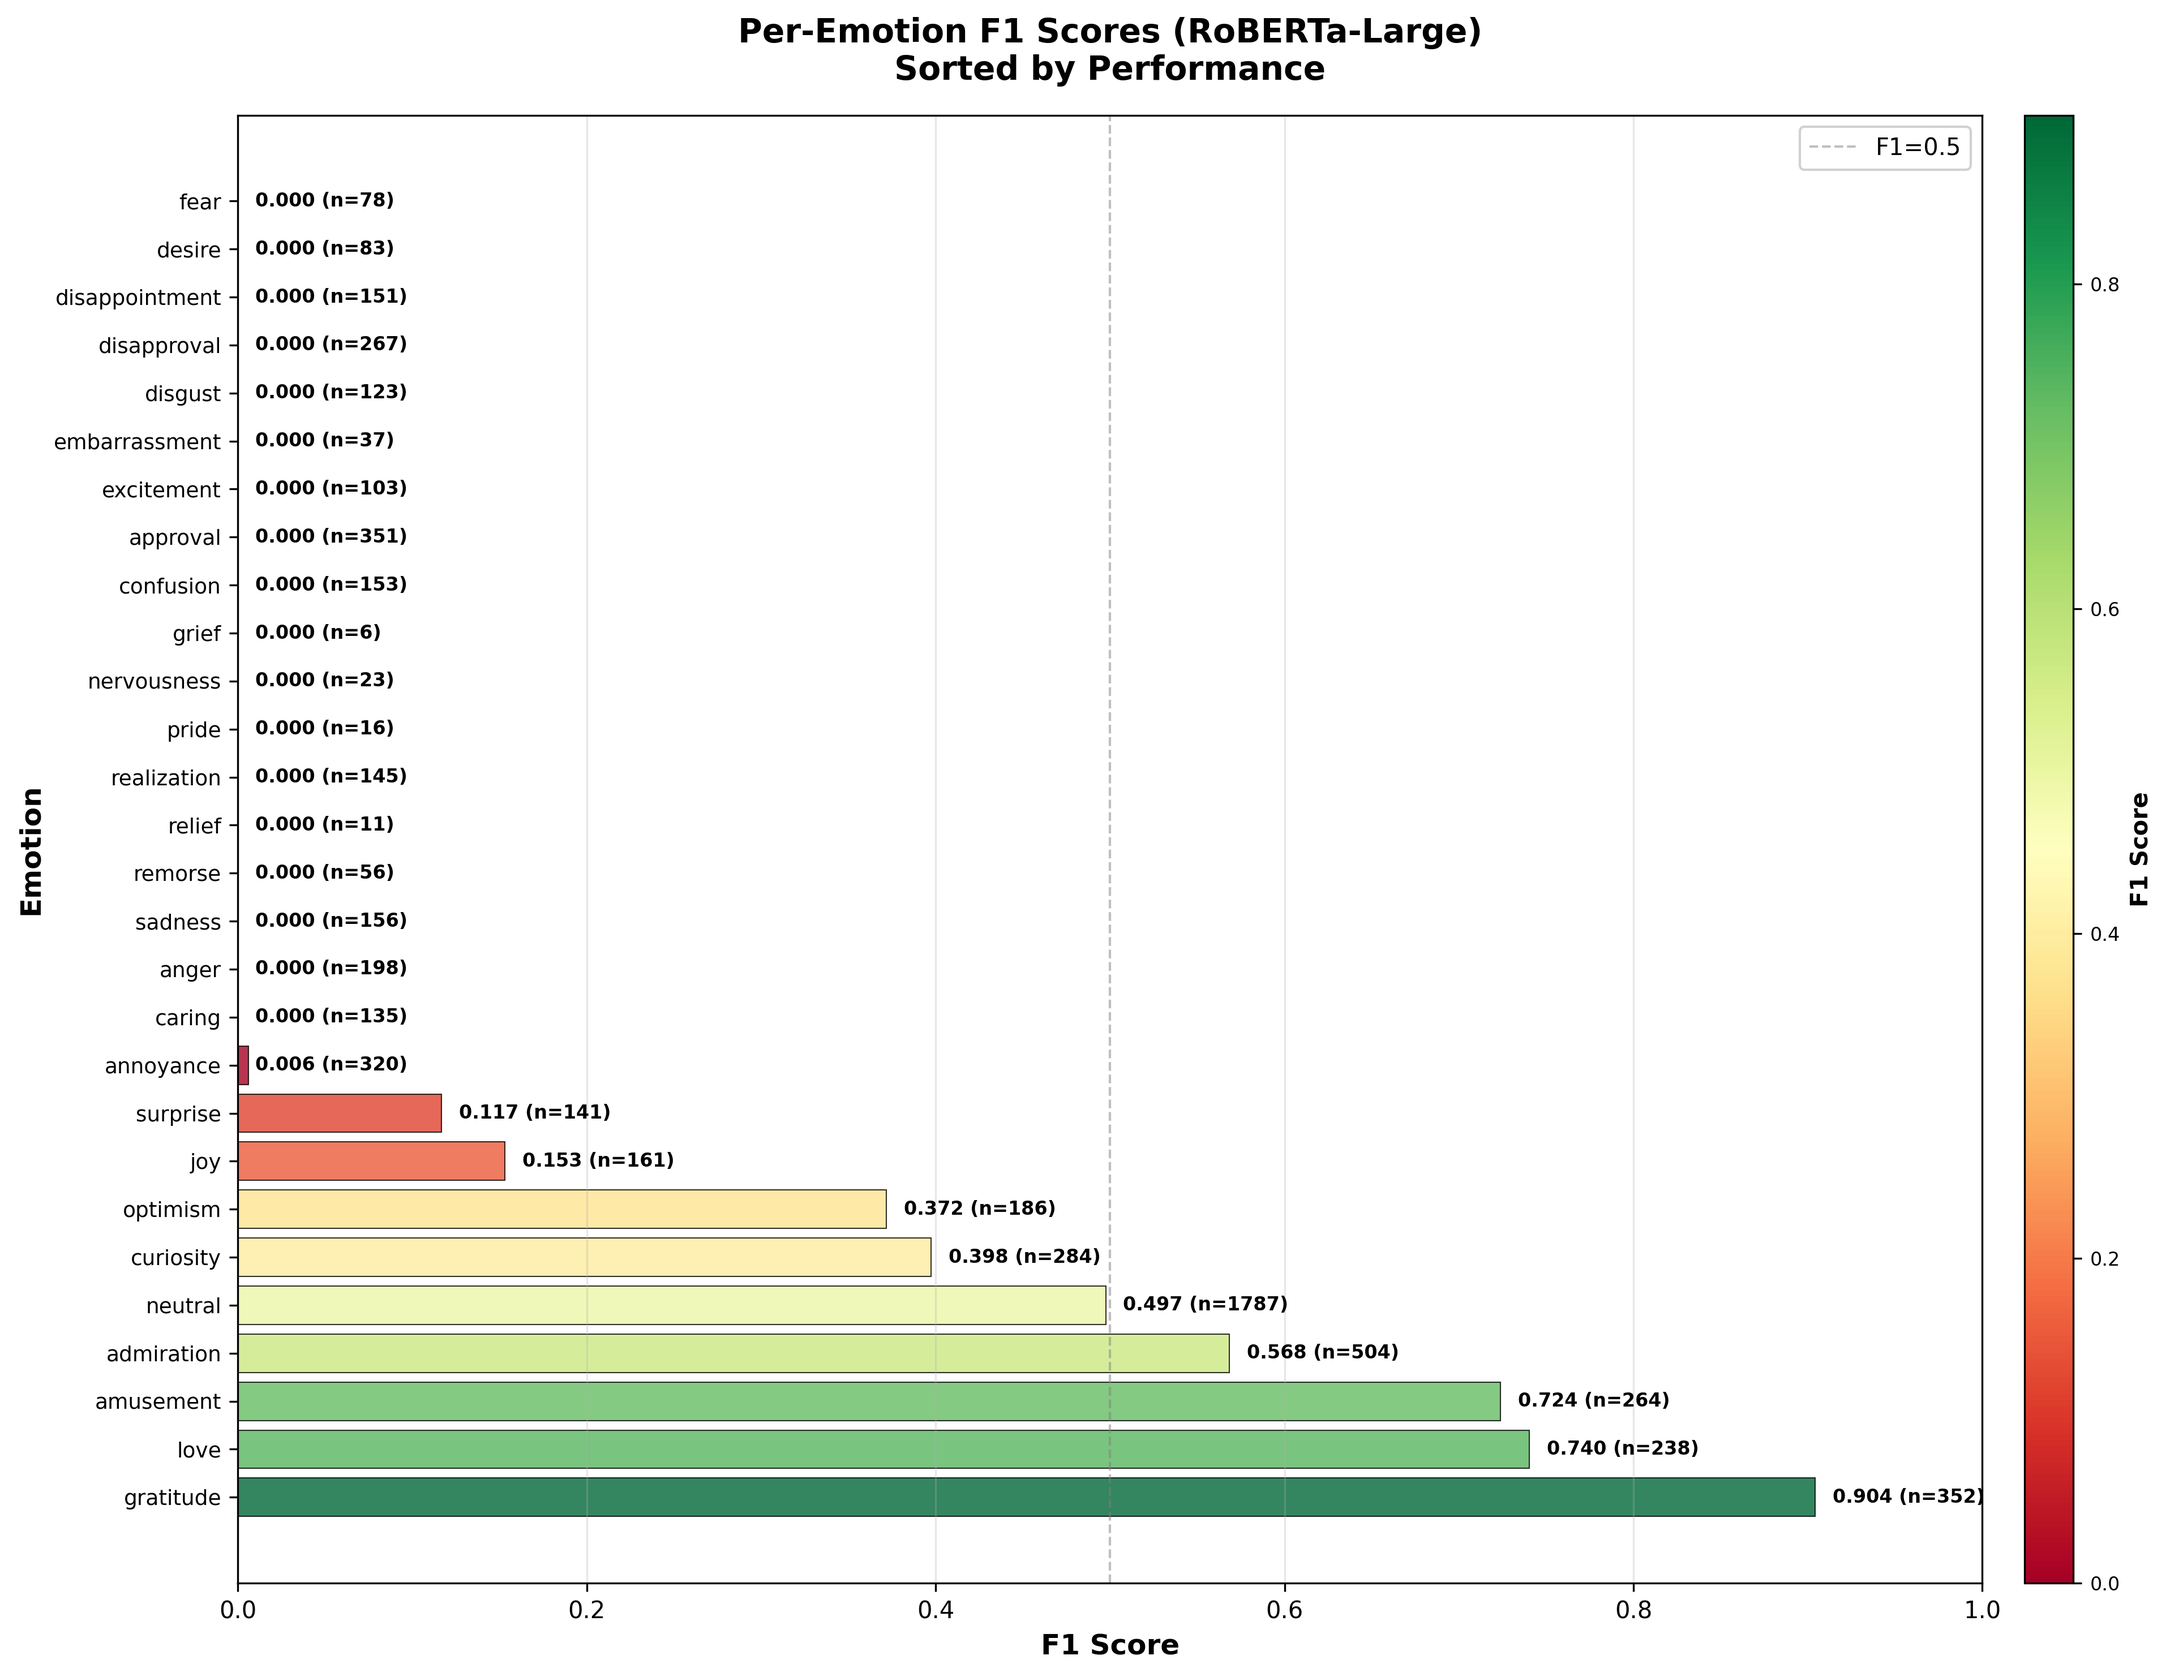
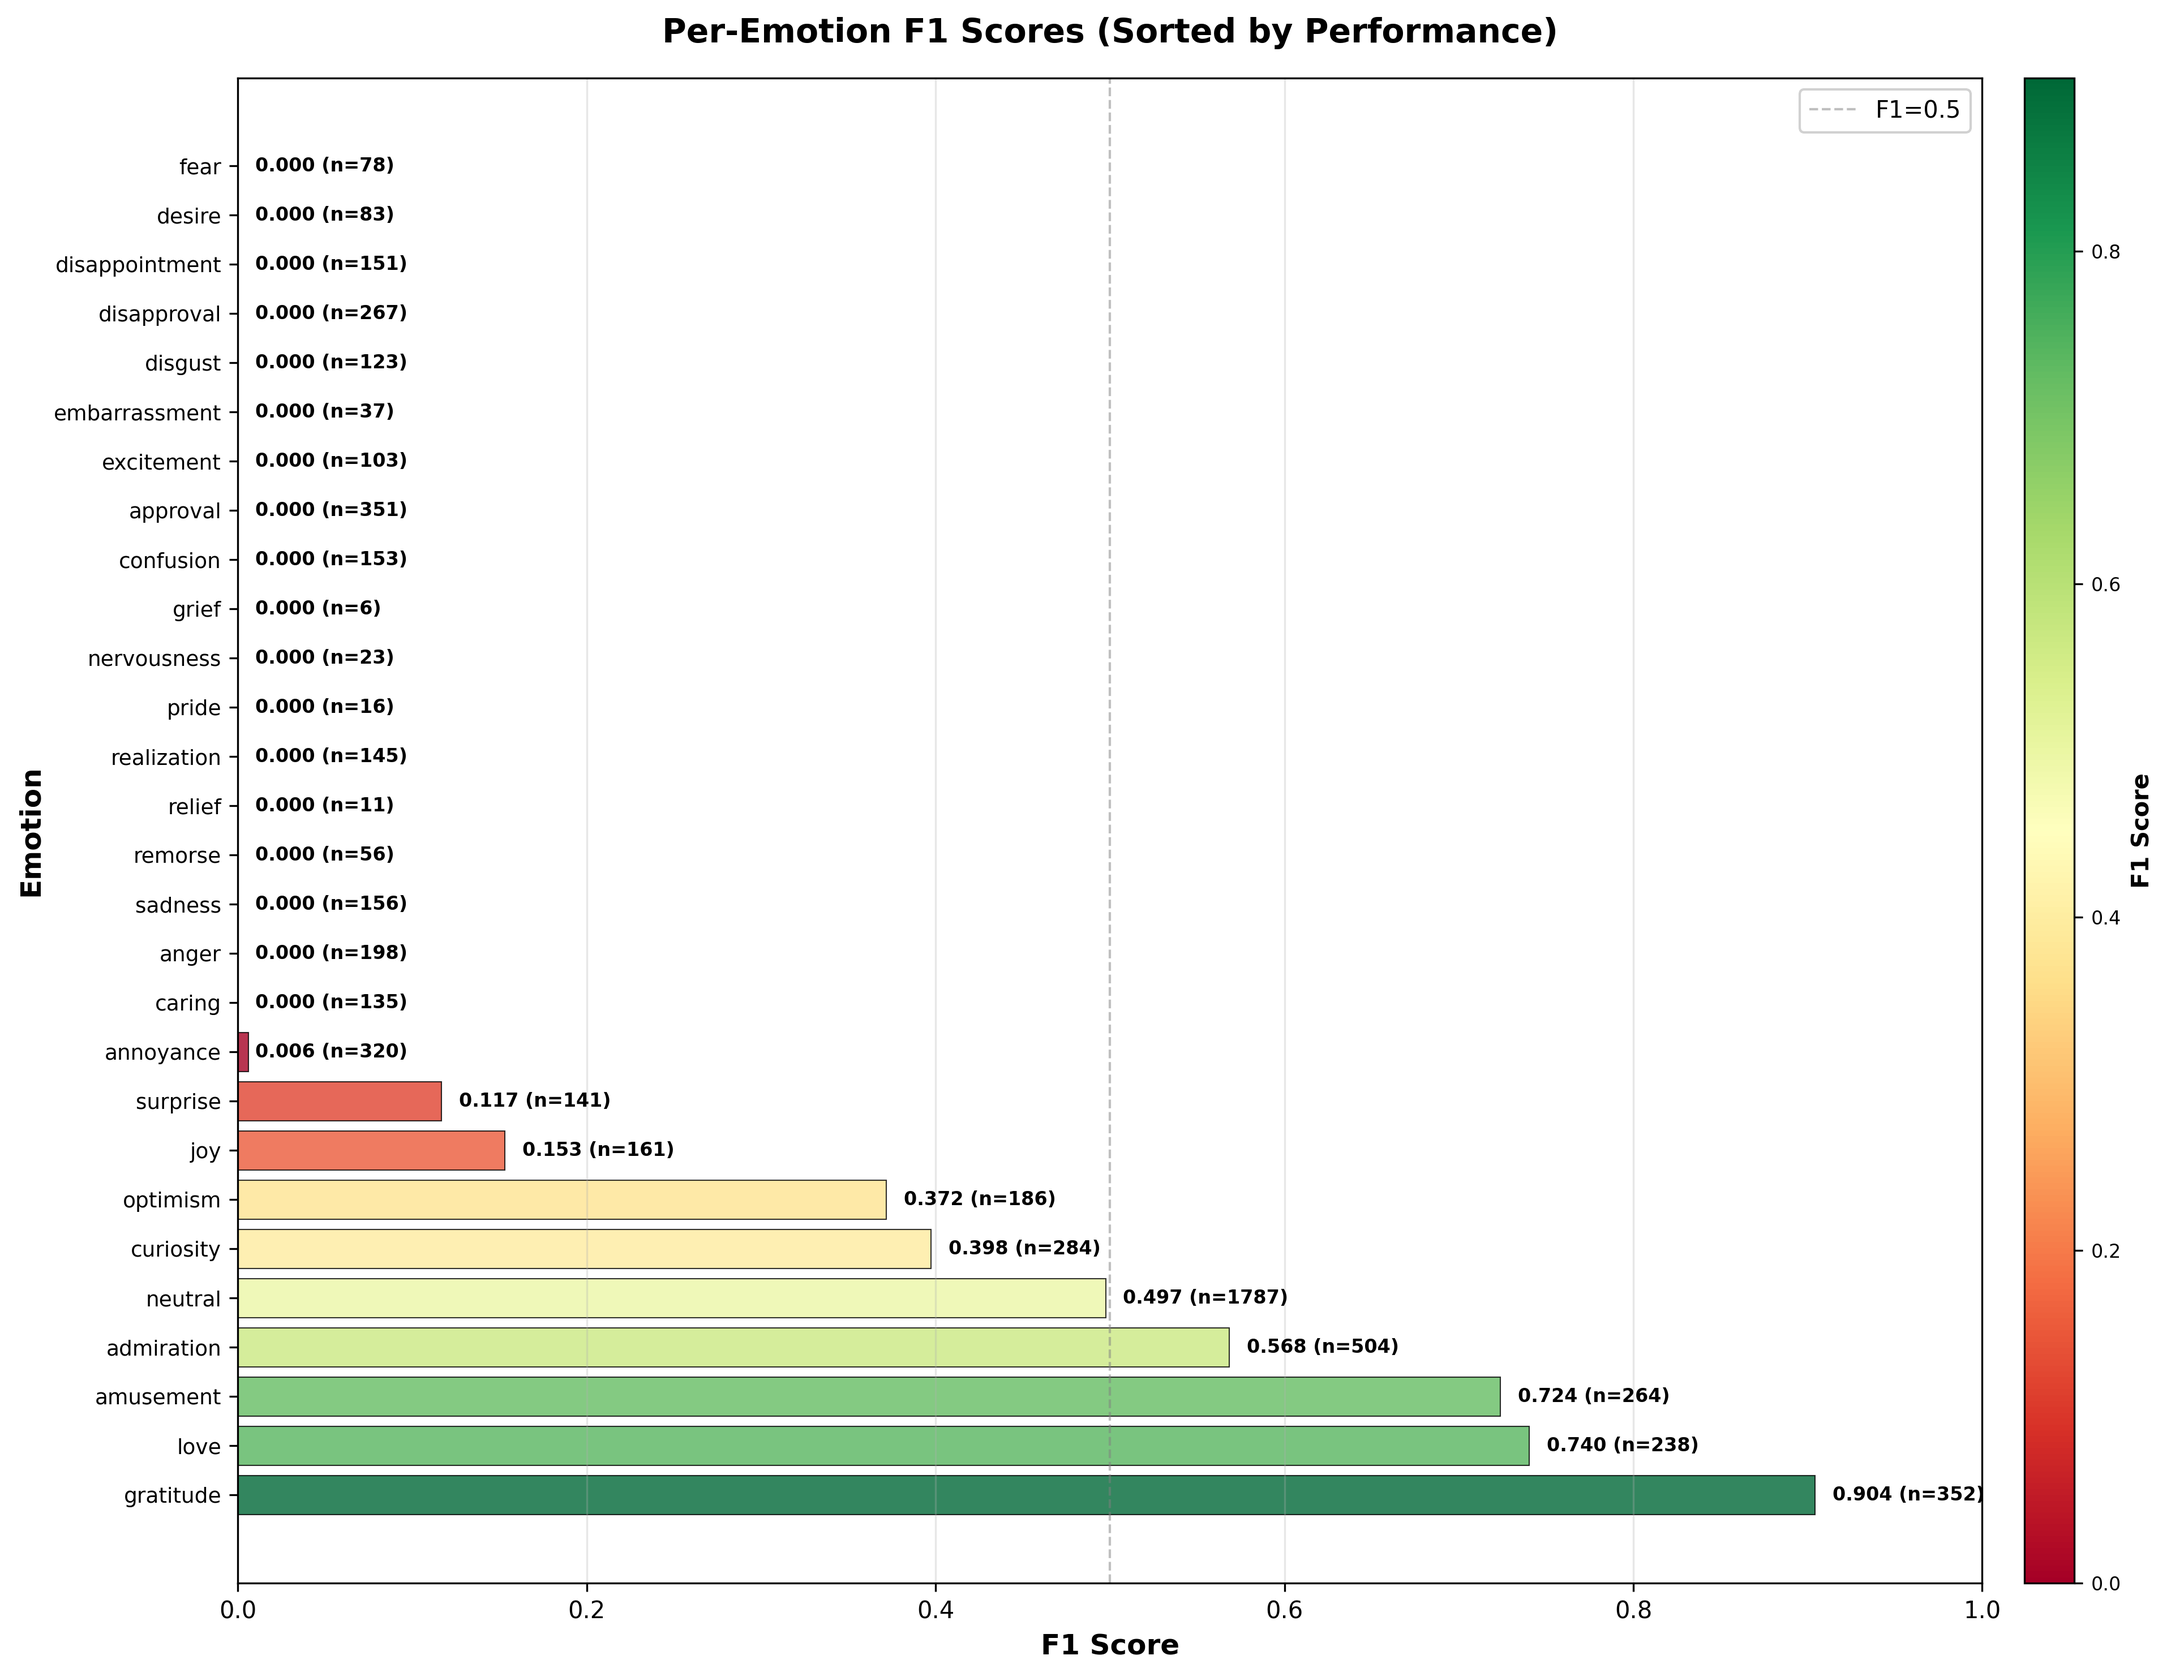
style: unify figure styling and improve readability
Standardize visual style across Figures 10 and 15:
- Add colorbar to both figures showing F1 score gradient scale
- Move legends from lower right to upper right for better visibility
- Shorten Figure 10 title to remove redundant model name
- Normalize F1 color mapping for consistent gradient display

Both figures now share clean white background, consistent color
schemes, and improved legend placement for easier interpretation.

diff --git a/Final_Project/src/analysis/threshold_sweep.py b/Final_Project/src/analysis/threshold_sweep.py
@@ -343,8 +343,15 @@ def plot_per_class_thresholds(
     # Create positions for bars
     y_pos = np.arange(len(emotions))
 
+    # Normalize F1 scores for color mapping
+    max_f1 = f1_scores.max()
+    if max_f1 > 0:
+        normalized_f1 = f1_scores / max_f1
+    else:
+        normalized_f1 = f1_scores
+
     # Color by F1 score
-    colors = plt.cm.RdYlGn(f1_scores)
+    colors = plt.cm.RdYlGn(normalized_f1)
 
     # Create horizontal bar chart
     bars = ax.barh(y_pos, thresholds, color=colors, alpha=0.8, edgecolor='black', linewidth=0.5)
@@ -368,7 +375,16 @@ def plot_per_class_thresholds(
     ax.axvline(x=0.5, color='gray', linestyle='--', linewidth=1, alpha=0.5, label='Default (0.5)')
 
     ax.grid(True, alpha=0.3, axis='x')
-    ax.legend(loc='lower right')
+    ax.legend(loc='upper right', framealpha=0.9)
+
+    # Add colorbar to show F1 score scale
+    from matplotlib.cm import ScalarMappable
+    from matplotlib.colors import Normalize
+    sm = ScalarMappable(cmap=plt.cm.RdYlGn, norm=Normalize(vmin=0, vmax=max_f1))
+    sm.set_array([])
+    cbar = plt.colorbar(sm, ax=ax, pad=0.02, aspect=30)
+    cbar.set_label('F1 Score', fontsize=10, fontweight='bold')
+    cbar.ax.tick_params(labelsize=8)
 
     plt.tight_layout()
 

diff --git a/Final_Project/src/analysis/visualize_per_emotion_f1.py b/Final_Project/src/analysis/visualize_per_emotion_f1.py
@@ -78,7 +78,7 @@ def create_f1_bar_chart(df: pd.DataFrame, output_path: str):
     ax.set_yticklabels(emotions, fontsize=9)
     ax.set_xlabel('F1 Score', fontsize=12, fontweight='bold')
     ax.set_ylabel('Emotion', fontsize=12, fontweight='bold')
-    ax.set_title('Per-Emotion F1 Scores (RoBERTa-Large)\nSorted by Performance',
+    ax.set_title('Per-Emotion F1 Scores (Sorted by Performance)',
                 fontsize=14, fontweight='bold', pad=15)
 
     # Add F1 score labels on bars
